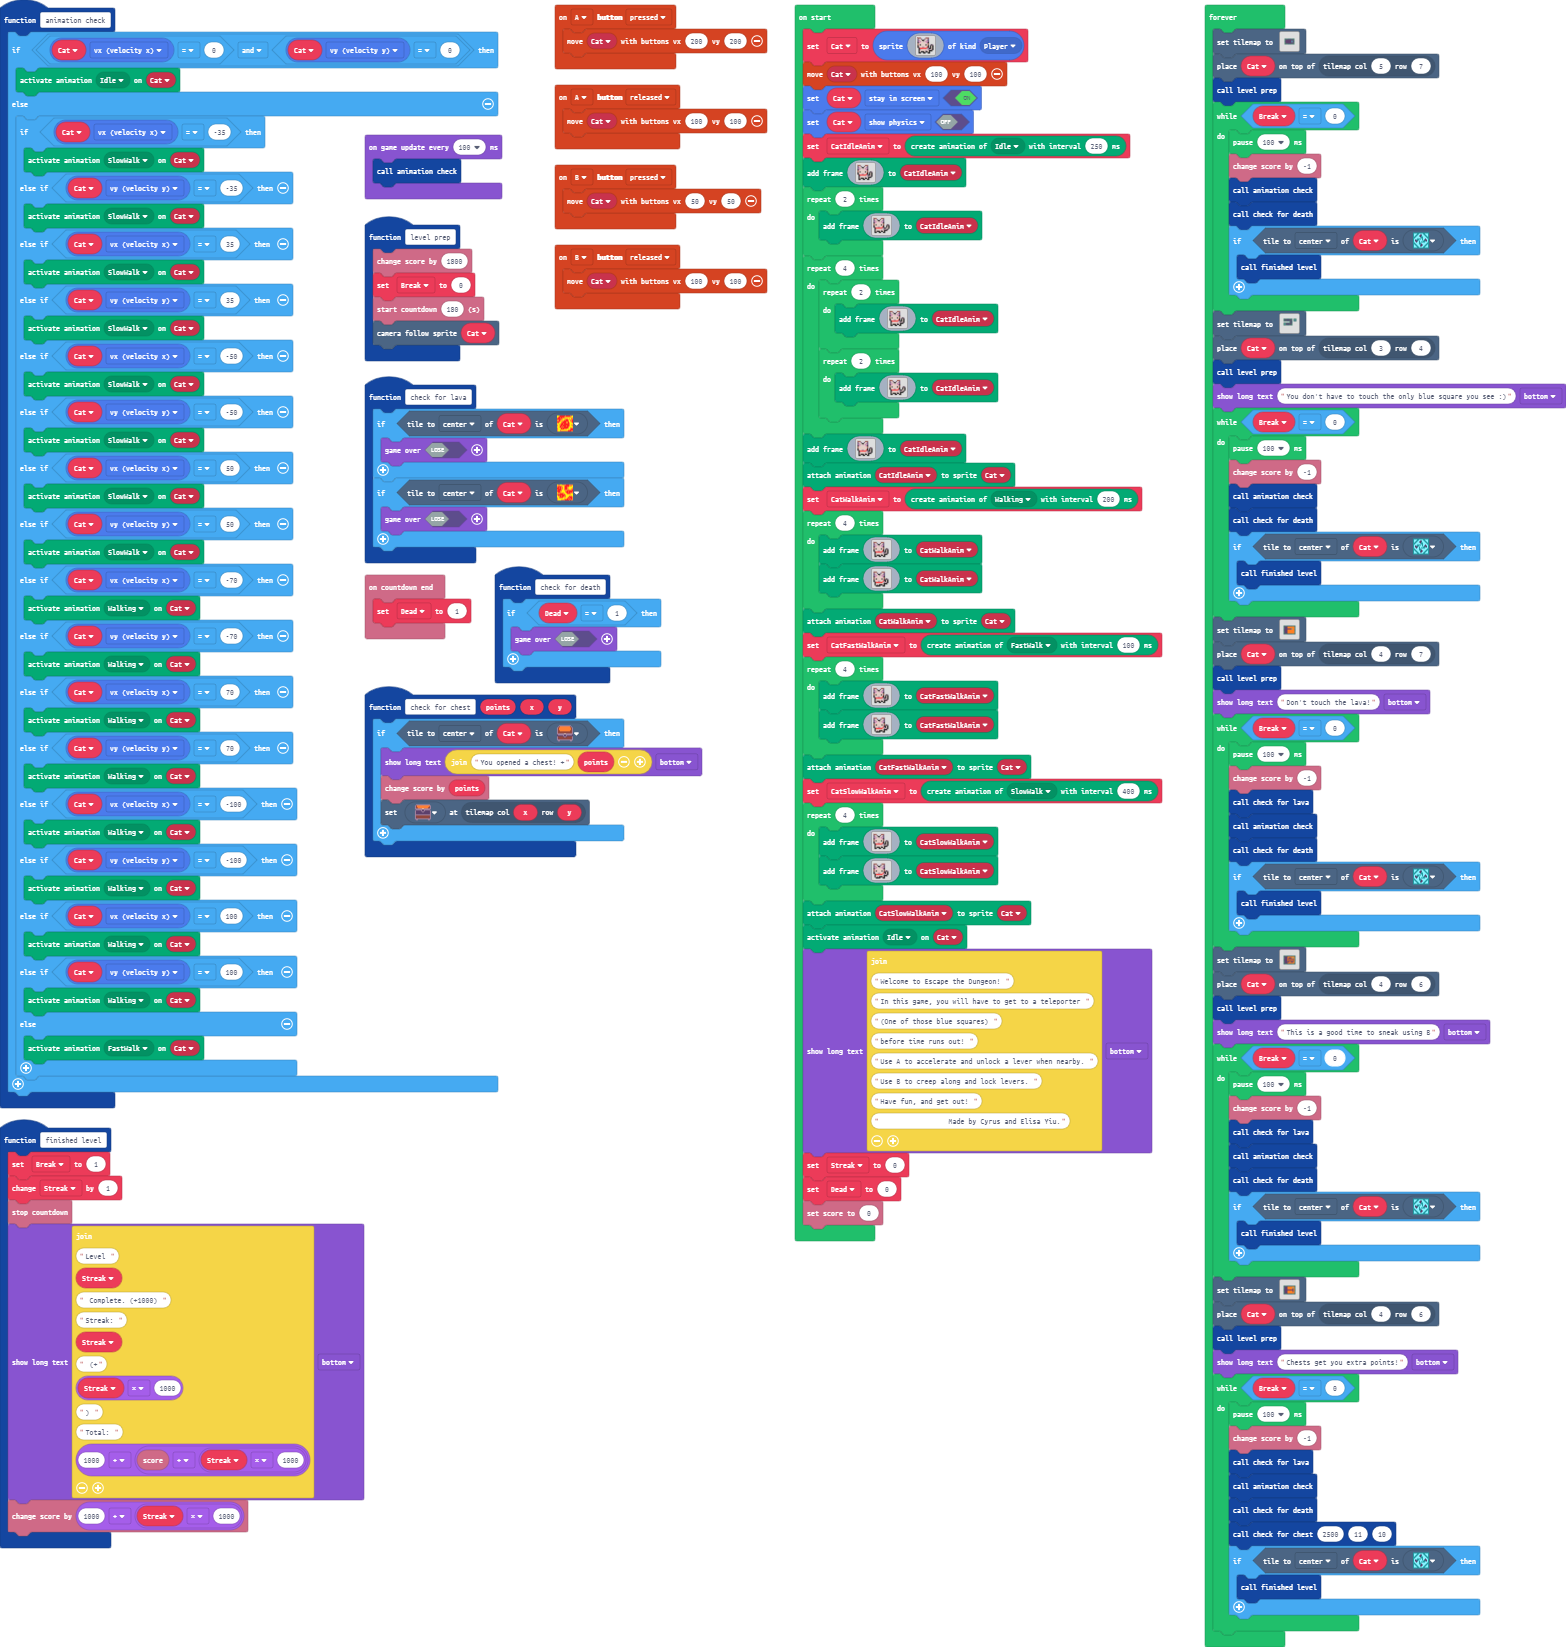
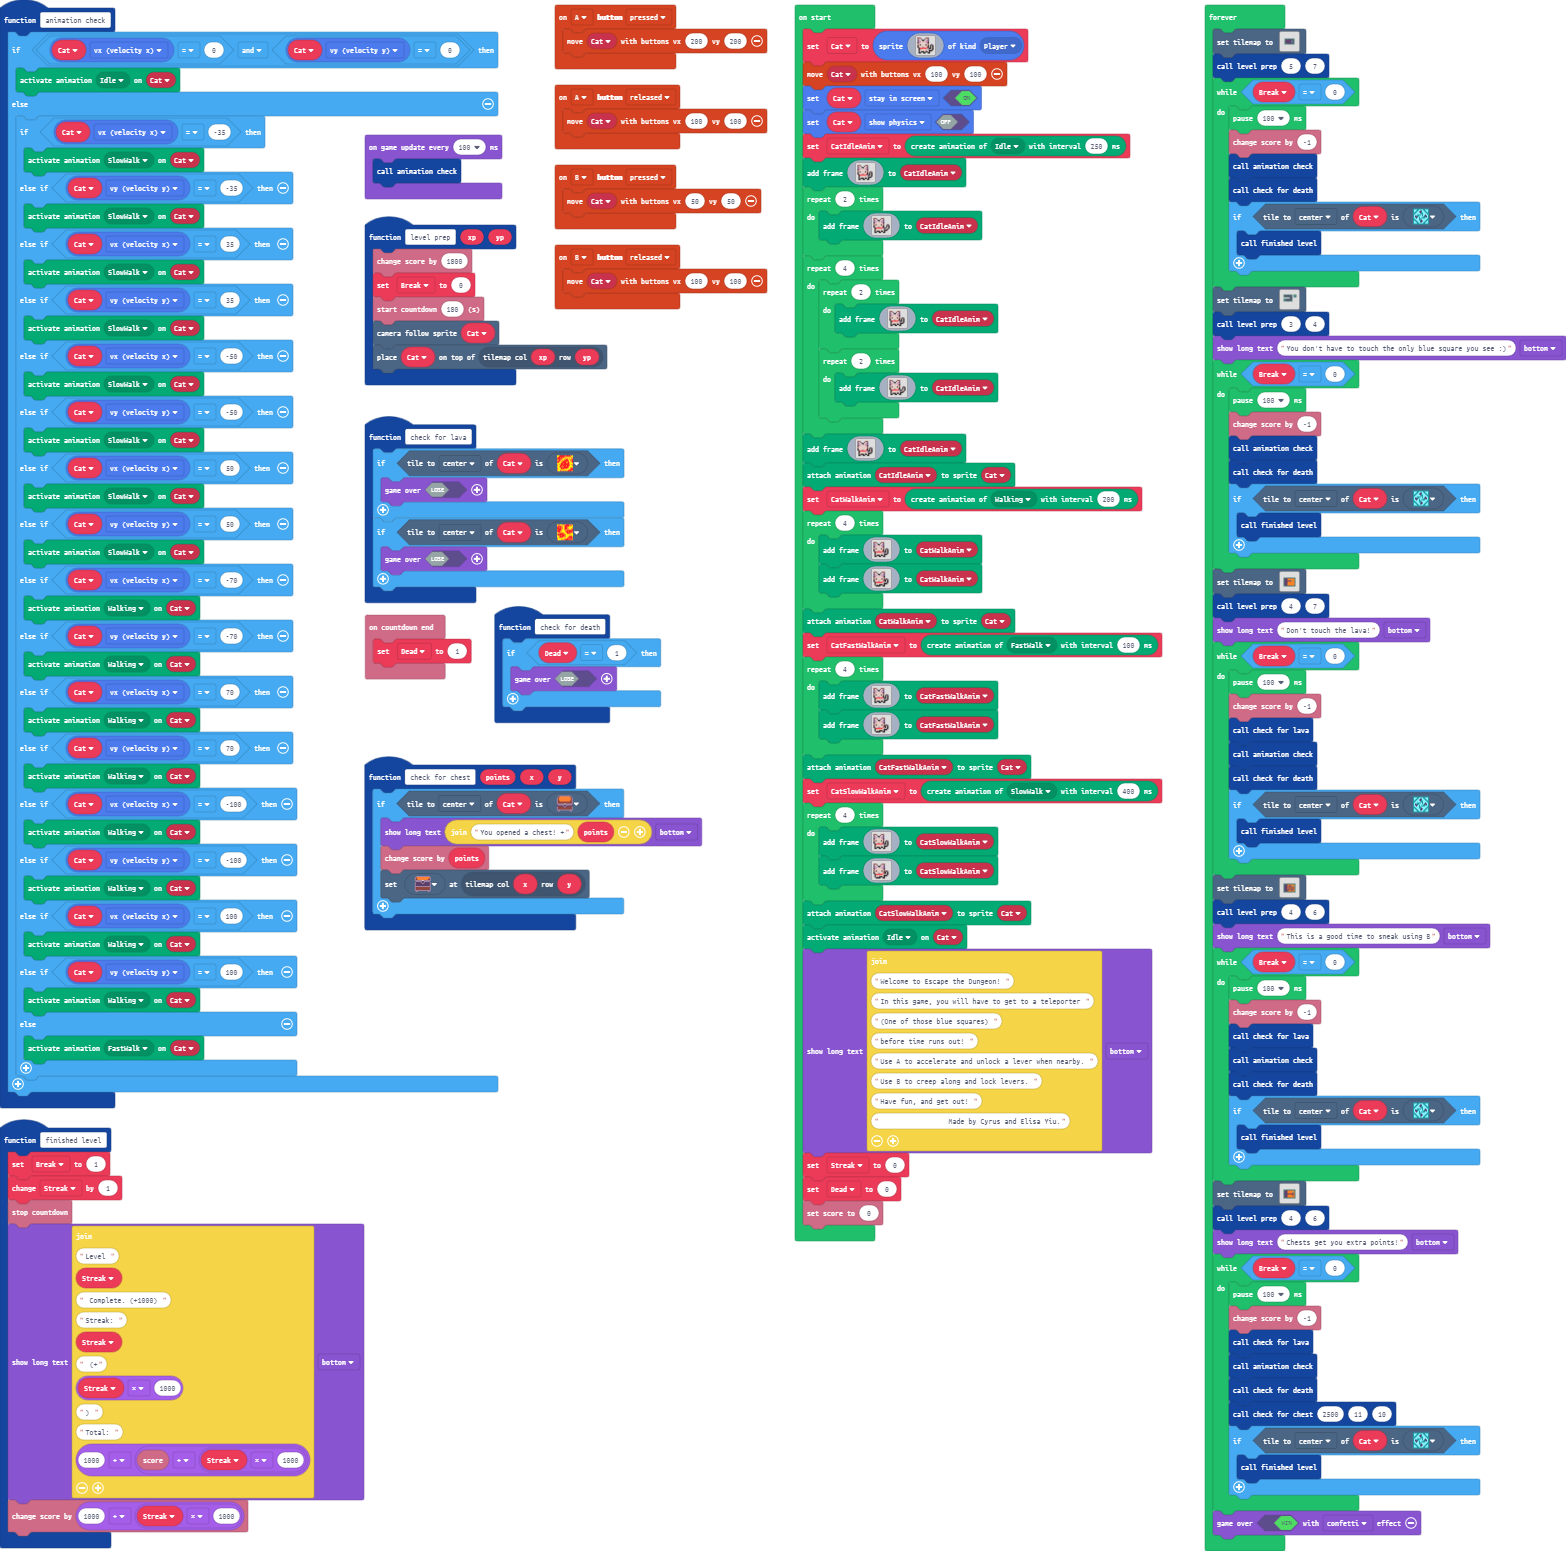
Update main.blocks, main.ts

diff --git a/main.ts b/main.ts
@@ -26,18 +26,12 @@ namespace myTiles {
 . . . . . . . . . . . . . . . . 
 `
 }
-function check_for_chest (points: number, x: number, y: number) {
-    if (Cat.tileKindAt(TileDirection.Center, sprites.dungeon.chestClosed)) {
-        game.showLongText("You opened a chest! +" + points, DialogLayout.Bottom)
-        info.changeScoreBy(points)
-        tiles.setTileAt(tiles.getTileLocation(x, y), sprites.dungeon.chestOpen)
-    }
-}
-function level_prep () {
+function level_prep (xp: number, yp: number) {
     info.changeScoreBy(1800)
     Break = 0
     info.startCountdown(180)
     scene.cameraFollowSprite(Cat)
+    tiles.placeOnTile(Cat, tiles.getTileLocation(xp, yp))
 }
 controller.B.onEvent(ControllerButtonEvent.Pressed, function () {
     controller.moveSprite(Cat, 50, 50)
@@ -67,6 +61,13 @@ function finished_level () {
     info.stopCountdown()
     game.showLongText("Level " + Streak + " Complete. (+1000) " + "Streak: " + Streak + " (+" + Streak * 1000 + ") " + "Total: " + (1000 + (info.score() + Streak * 1000)), DialogLayout.Bottom)
     info.changeScoreBy(1000 + Streak * 1000)
+}
+function check_for_chest (points: number, x: number, y: number) {
+    if (Cat.tileKindAt(TileDirection.Center, sprites.dungeon.chestClosed)) {
+        game.showLongText("You opened a chest! +" + points, DialogLayout.Bottom)
+        info.changeScoreBy(points)
+        tiles.setTileAt(tiles.getTileLocation(x, y), sprites.dungeon.chestOpen)
+    }
 }
 info.onCountdownEnd(function () {
     Dead = 1
@@ -368,8 +369,7 @@ forever(function () {
             [myTiles.tile0,sprites.dungeon.darkGroundNorthWest0,sprites.dungeon.darkGroundWest,sprites.dungeon.darkGroundSouthWest0,sprites.dungeon.darkGroundNorth,sprites.dungeon.darkGroundNorthEast0,sprites.dungeon.darkGroundSouthEast0,sprites.dungeon.darkGroundEast,sprites.dungeon.darkGroundSouth,sprites.dungeon.darkGroundCenter,sprites.dungeon.greenOuterNorth0,sprites.dungeon.greenOuterNorth1,sprites.dungeon.greenOuterNorthWest,sprites.dungeon.greenOuterNorthEast,sprites.dungeon.greenOuterSouthWest,sprites.dungeon.greenOuterSouthEast,sprites.dungeon.greenOuterWest1,sprites.dungeon.greenOuterWest0,sprites.dungeon.greenOuterSouth0,sprites.dungeon.greenOuterSouth1,sprites.dungeon.greenOuterEast0,sprites.dungeon.greenOuterEast1,sprites.dungeon.greenOuterNorth2,sprites.dungeon.greenOuterSouth2,sprites.dungeon.greenOuterEast2,sprites.dungeon.greenOuterWest2,sprites.dungeon.collectibleInsignia],
             TileScale.Sixteen
         ))
-    tiles.placeOnTile(Cat, tiles.getTileLocation(5, 7))
-    level_prep()
+    level_prep(5, 7)
     while (Break == 0) {
         pause(100)
         info.changeScoreBy(-1)
@@ -402,8 +402,7 @@ forever(function () {
             [myTiles.tile0,sprites.dungeon.darkGroundNorthWest0,sprites.dungeon.darkGroundWest,sprites.dungeon.darkGroundSouthWest0,sprites.dungeon.darkGroundNorth,sprites.dungeon.darkGroundNorthEast0,sprites.dungeon.darkGroundSouthEast0,sprites.dungeon.darkGroundEast,sprites.dungeon.darkGroundSouth,sprites.dungeon.darkGroundCenter,sprites.dungeon.greenOuterNorth0,sprites.dungeon.greenOuterNorth1,sprites.dungeon.greenOuterNorthWest,sprites.dungeon.greenOuterNorthEast,sprites.dungeon.greenOuterSouthWest,sprites.dungeon.greenOuterSouthEast,sprites.dungeon.greenOuterWest1,sprites.dungeon.greenOuterWest0,sprites.dungeon.greenOuterSouth0,sprites.dungeon.greenOuterSouth1,sprites.dungeon.greenOuterEast0,sprites.dungeon.greenOuterEast1,sprites.dungeon.greenOuterNorth2,sprites.dungeon.greenOuterSouth2,sprites.dungeon.greenOuterEast2,sprites.dungeon.greenOuterWest2,sprites.dungeon.collectibleInsignia],
             TileScale.Sixteen
         ))
-    tiles.placeOnTile(Cat, tiles.getTileLocation(3, 4))
-    level_prep()
+    level_prep(3, 4)
     game.showLongText("You don't have to touch the only blue square you see :)", DialogLayout.Bottom)
     while (Break == 0) {
         pause(100)
@@ -437,8 +436,7 @@ forever(function () {
             [myTiles.tile0,sprites.dungeon.darkGroundNorthWest0,sprites.dungeon.darkGroundWest,sprites.dungeon.darkGroundSouthWest0,sprites.dungeon.darkGroundNorth,sprites.dungeon.darkGroundNorthEast0,sprites.dungeon.darkGroundSouthEast0,sprites.dungeon.darkGroundEast,sprites.dungeon.darkGroundSouth,sprites.dungeon.darkGroundCenter,sprites.dungeon.greenOuterNorth0,sprites.dungeon.greenOuterNorth1,sprites.dungeon.greenOuterNorthWest,sprites.dungeon.greenOuterNorthEast,sprites.dungeon.greenOuterSouthWest,sprites.dungeon.greenOuterSouthEast,sprites.dungeon.greenOuterWest1,sprites.dungeon.greenOuterWest0,sprites.dungeon.greenOuterSouth0,sprites.dungeon.greenOuterSouth1,sprites.dungeon.greenOuterEast0,sprites.dungeon.greenOuterEast1,sprites.dungeon.greenOuterNorth2,sprites.dungeon.greenOuterSouth2,sprites.dungeon.greenOuterEast2,sprites.dungeon.greenOuterWest2,sprites.dungeon.collectibleInsignia,sprites.castle.tilePath3,sprites.dungeon.chestClosed,sprites.dungeon.darkGroundNorthWest1,sprites.dungeon.hazardLava0,sprites.dungeon.hazardLava1],
             TileScale.Sixteen
         ))
-    tiles.placeOnTile(Cat, tiles.getTileLocation(4, 7))
-    level_prep()
+    level_prep(4, 7)
     game.showLongText("Don't touch the lava!", DialogLayout.Bottom)
     while (Break == 0) {
         pause(100)
@@ -473,8 +471,7 @@ forever(function () {
             [myTiles.tile0,sprites.dungeon.darkGroundNorthWest0,sprites.dungeon.darkGroundWest,sprites.dungeon.darkGroundSouthWest0,sprites.dungeon.darkGroundNorth,sprites.dungeon.darkGroundNorthEast0,sprites.dungeon.darkGroundSouthEast0,sprites.dungeon.darkGroundEast,sprites.dungeon.darkGroundSouth,sprites.dungeon.darkGroundCenter,sprites.dungeon.greenOuterNorth0,sprites.dungeon.greenOuterNorth1,sprites.dungeon.greenOuterNorthWest,sprites.dungeon.greenOuterNorthEast,sprites.dungeon.greenOuterSouthWest,sprites.dungeon.greenOuterSouthEast,sprites.dungeon.greenOuterWest1,sprites.dungeon.greenOuterWest0,sprites.dungeon.greenOuterSouth0,sprites.dungeon.greenOuterSouth1,sprites.dungeon.greenOuterEast0,sprites.dungeon.greenOuterEast1,sprites.dungeon.greenOuterNorth2,sprites.dungeon.greenOuterSouth2,sprites.dungeon.greenOuterEast2,sprites.dungeon.greenOuterWest2,sprites.dungeon.collectibleInsignia,sprites.castle.tilePath3,sprites.dungeon.chestClosed,sprites.dungeon.darkGroundNorthWest1,sprites.dungeon.hazardLava0,sprites.dungeon.hazardLava1],
             TileScale.Sixteen
         ))
-    tiles.placeOnTile(Cat, tiles.getTileLocation(4, 6))
-    level_prep()
+    level_prep(4, 6)
     game.showLongText("This is a good time to sneak using B", DialogLayout.Bottom)
     while (Break == 0) {
         pause(100)
@@ -509,8 +506,7 @@ forever(function () {
             [myTiles.tile0,sprites.dungeon.darkGroundNorthWest0,sprites.dungeon.darkGroundWest,sprites.dungeon.darkGroundSouthWest0,sprites.dungeon.darkGroundNorth,sprites.dungeon.darkGroundNorthEast0,sprites.dungeon.darkGroundSouthEast0,sprites.dungeon.darkGroundEast,sprites.dungeon.darkGroundSouth,sprites.dungeon.darkGroundCenter,sprites.dungeon.greenOuterNorth0,sprites.dungeon.greenOuterNorth1,sprites.dungeon.greenOuterNorthWest,sprites.dungeon.greenOuterNorthEast,sprites.dungeon.greenOuterSouthWest,sprites.dungeon.greenOuterSouthEast,sprites.dungeon.greenOuterWest1,sprites.dungeon.greenOuterWest0,sprites.dungeon.greenOuterSouth0,sprites.dungeon.greenOuterSouth1,sprites.dungeon.greenOuterEast0,sprites.dungeon.greenOuterEast1,sprites.dungeon.greenOuterNorth2,sprites.dungeon.greenOuterSouth2,sprites.dungeon.greenOuterEast2,sprites.dungeon.greenOuterWest2,sprites.dungeon.collectibleInsignia,sprites.castle.tilePath3,sprites.dungeon.chestClosed,sprites.dungeon.darkGroundNorthWest1,sprites.dungeon.hazardLava0,sprites.dungeon.hazardLava1,sprites.dungeon.collectibleRedCrystal,sprites.dungeon.chestOpen],
             TileScale.Sixteen
         ))
-    tiles.placeOnTile(Cat, tiles.getTileLocation(4, 6))
-    level_prep()
+    level_prep(4, 6)
     game.showLongText("Chests get you extra points!", DialogLayout.Bottom)
     while (Break == 0) {
         pause(100)
@@ -523,4 +519,5 @@ forever(function () {
             finished_level()
         }
     }
+    game.over(true, effects.confetti)
 })
